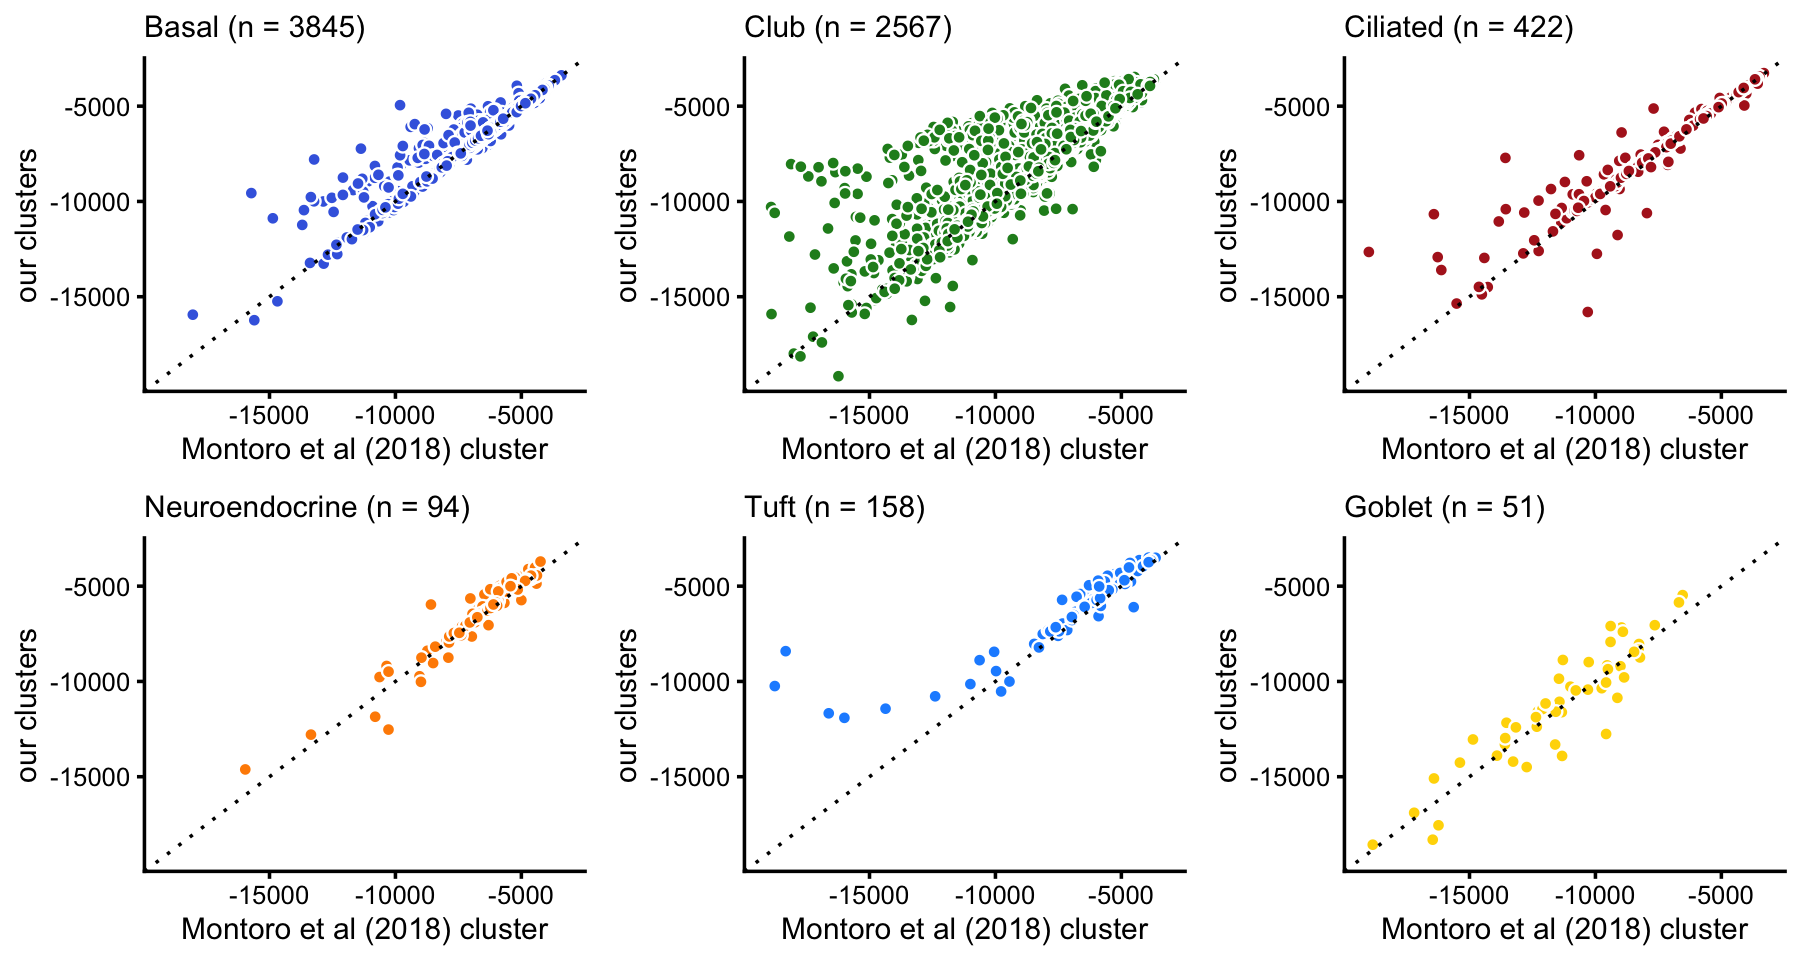
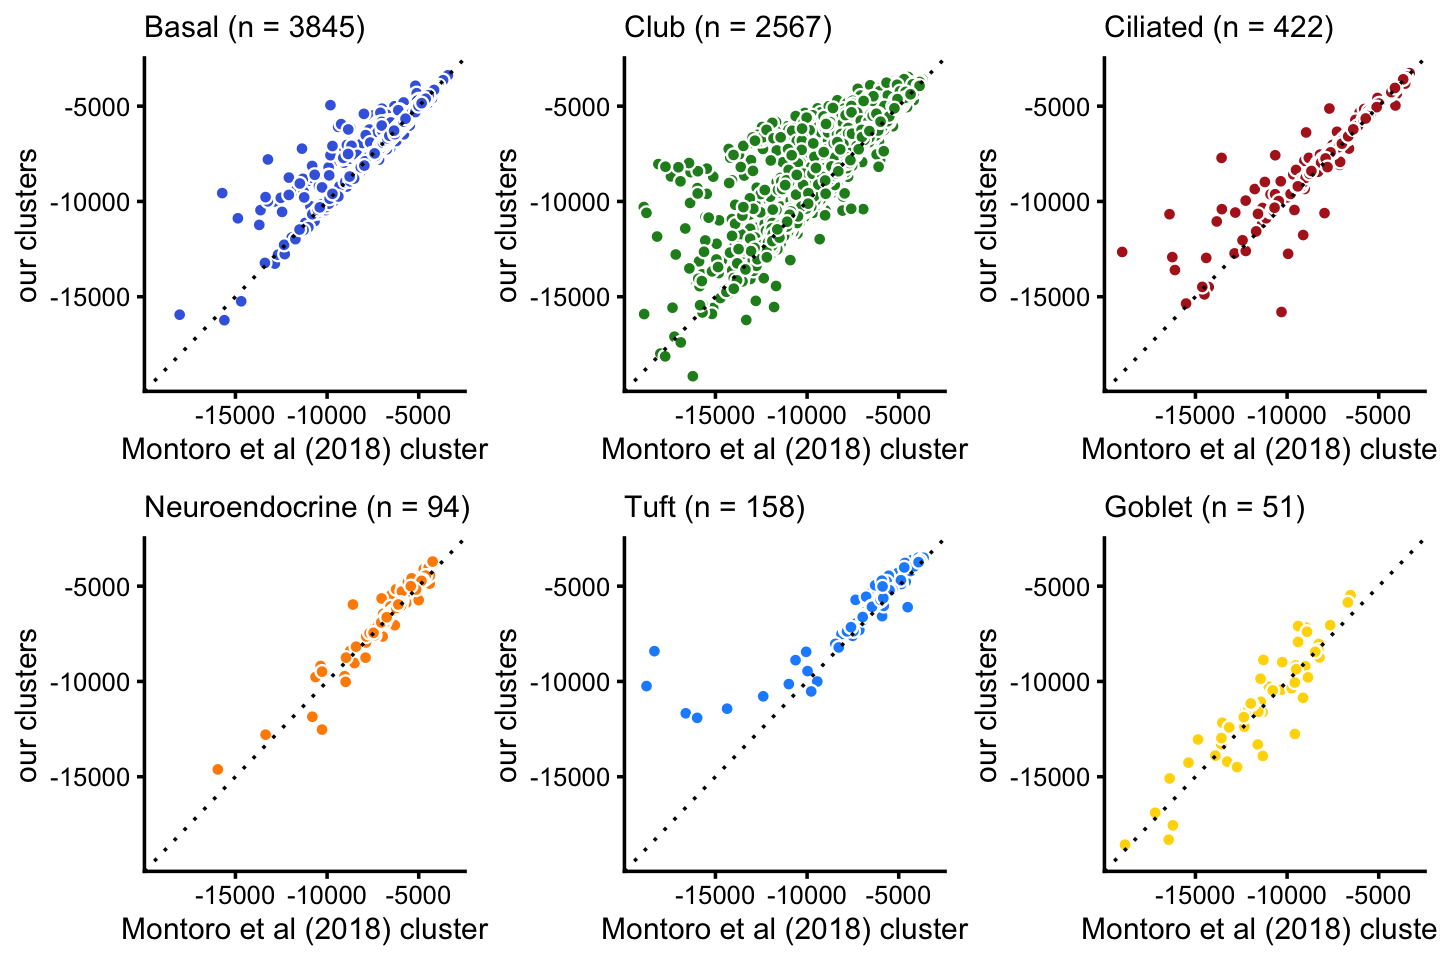
Added text describing likelihood scatterplots in clusters_droplet analysis.

diff --git a/docs/clusters_droplet.html b/docs/clusters_droplet.html
@@ -414,16 +414,16 @@ This reproducible <a href="http://rmarkdown.rstudio.com">R Markdown</a> analysis
 <div class="panel panel-default">
 <div class="panel-heading">
 <p class="panel-title">
-<a data-toggle="collapse" data-parent="#workflowr-checks" href="#strongRepositoryversionstrongahrefhttpsgithubcomstephenslabsinglecelltopicstreea51c33bece1f7b26b7e2566e197ce87ac5664f5dtargetblanka51c33ba"> <span class="glyphicon glyphicon-ok text-success" aria-hidden="true"></span> <strong>Repository version:</strong> <a href="https://github.com/stephenslab/single-cell-topics/tree/a51c33bece1f7b26b7e2566e197ce87ac5664f5d" target="_blank">a51c33b</a> </a>
+<a data-toggle="collapse" data-parent="#workflowr-checks" href="#strongRepositoryversionstrongahrefhttpsgithubcomstephenslabsinglecelltopicstreee672ef7e7809a8b9f50bf85b1dce365e1b79b664targetblanke672ef7a"> <span class="glyphicon glyphicon-ok text-success" aria-hidden="true"></span> <strong>Repository version:</strong> <a href="https://github.com/stephenslab/single-cell-topics/tree/e672ef7e7809a8b9f50bf85b1dce365e1b79b664" target="_blank">e672ef7</a> </a>
 </p>
 </div>
[2 lines of base64/hex data omitted]
 <div class="panel-body">
 <p>
 Great! You are using Git for version control. Tracking code development and connecting the code version to the results is critical for reproducibility.
 </p>
 <p>
-The results in this page were generated with repository version <a href="https://github.com/stephenslab/single-cell-topics/tree/a51c33bece1f7b26b7e2566e197ce87ac5664f5d" target="_blank">a51c33b</a>. See the <em>Past versions</em> tab to see a history of the changes made to the R Markdown and HTML files.
+The results in this page were generated with repository version <a href="https://github.com/stephenslab/single-cell-topics/tree/e672ef7e7809a8b9f50bf85b1dce365e1b79b664" target="_blank">e672ef7</a>. See the <em>Past versions</em> tab to see a history of the changes made to the R Markdown and HTML files.
 </p>
 <p>
 Note that you need to be careful to ensure that all relevant files for the analysis have been committed to Git prior to generating the results (you can use <code>wflow_publish</code> or <code>wflow_git_commit</code>). workflowr only checks the R Markdown file, but you know if there are other scripts or data files that it depends on. Below is the status of the Git repository when the results were generated:
@@ -485,6 +485,40 @@ Message
 </tr>
 </thead>
 <tbody>
+<tr>
+<td>
+Rmd
+</td>
+<td>
+<a href="https://github.com/stephenslab/single-cell-topics/blob/e672ef7e7809a8b9f50bf85b1dce365e1b79b664/analysis/clusters_droplet.Rmd" target="_blank">e672ef7</a>
+</td>
+<td>
+Peter Carbonetto
+</td>
+<td>
+2020-10-18
+</td>
+<td>
+workflowr::wflow_publish(“clusters_droplet.Rmd”)
+</td>
+</tr>
+<tr>
+<td>
+html
+</td>
+<td>
+<a href="https://rawcdn.githack.com/stephenslab/single-cell-topics/7363e2a6c24b06ced2571eff46e760e63626af56/docs/clusters_droplet.html" target="_blank">7363e2a</a>
+</td>
+<td>
+Peter Carbonetto
+</td>
+<td>
+2020-10-18
+</td>
+<td>
+Added log-likelihood scatterplots to clusters_droplet analysis.
+</td>
+</tr>
 <tr>
 <td>
 Rmd
@@ -2297,7 +2331,7 @@ Peter Carbonetto
 </div>
 <div id="analysis-of-single-cell-likelihoods" class="section level2">
 <h2>Analysis of single-cell likelihoods</h2>
-<p><em>Add text.</em></p>
+<p>Here we calculate single-cell likelihoods to assess how well the multinomial topic model captures expression in different cell-types.</p>
 <pre class="r"><code>fit_merge      &lt;- merge_topics(poisson2multinom(fit),c(&quot;k5&quot;,&quot;k7&quot;))
 fit_cluster    &lt;- init_poisson_nmf_from_clustering(counts,samples$cluster)
 fit_montoro    &lt;- init_poisson_nmf_from_clustering(counts,samples$tissue)
@@ -2306,7 +2340,7 @@ fit_montoro    &lt;- poisson2multinom(fit_montoro)
 loglik_topics  &lt;- loglik_multinom_topic_model(counts,fit_merge)
 loglik_cluster &lt;- loglik_multinom_topic_model(counts,fit_cluster)
 loglik_montoro &lt;- loglik_multinom_topic_model(counts,fit_montoro)</code></pre>
-<p><em>Add text here.</em></p>
+<p>Here we compare the likelihood under gene expression levels estimated by a hard clustering; specifically, we compare the Montoro <em>et al</em> (2018) clustering against our clustering. Overall, our clustering appears to better fit the data, particularly in the abundant cell types (basal, club, ciliated).</p>
 <pre class="r"><code>minloglik &lt;- -20000
 p1 &lt;- loglik_scatterplot(loglik_montoro,loglik_cluster,samples$tissue,&quot;Basal&quot;,
                          &quot;royalblue&quot;,minloglik,&quot;Montoro et al (2018) cluster&quot;,
@@ -2327,8 +2361,45 @@ p6 &lt;- loglik_scatterplot(loglik_montoro,loglik_cluster,samples$tissue,&quot;G
                          &quot;gold&quot;,minloglik,&quot;Montoro et al (2018) cluster&quot;,
                          &quot;our clusters&quot;)
 plot_grid(p1,p2,p3,p4,p5,p6,nrow = 2,ncol = 3)</code></pre>
-<p><img src="figure/clusters_droplet.Rmd/likelihood-2-1.png" width="900" style="display: block; margin: auto;" /></p>
-<p><em>Add text here.</em></p>
+<p><img src="figure/clusters_droplet.Rmd/likelihood-2-1.png" width="720" style="display: block; margin: auto;" /></p>
+<p>
+<button type="button" class="btn btn-default btn-xs btn-workflowr btn-workflowr-fig" data-toggle="collapse" data-target="#fig-likelihood-2-1">
+Past versions of likelihood-2-1.png
+</button>
+</p>
+<div id="fig-likelihood-2-1" class="collapse">
+<div class="table-responsive">
+<table class="table table-condensed table-hover">
+<thead>
+<tr>
+<th>
+Version
+</th>
+<th>
+Author
+</th>
+<th>
+Date
+</th>
+</tr>
+</thead>
+<tbody>
+<tr>
+<td>
+<a href="https://github.com/stephenslab/single-cell-topics/blob/7363e2a6c24b06ced2571eff46e760e63626af56/docs/figure/clusters_droplet.Rmd/likelihood-2-1.png" target="_blank">7363e2a</a>
+</td>
+<td>
+Peter Carbonetto
+</td>
+<td>
+2020-10-18
+</td>
+</tr>
+</tbody>
+</table>
+</div>
+</div>
+<p>Next, we compare the topic-model likelihoods to the clustering-based likelihoods. In most cases, the topic model provides a fit that is better or at least as good as the clustering-based fit. The one excecption is the tuft and neuroendocrine cells; the clustering provides a better fit of the observed expression levels given that no single topic represents tuft and neuroendocrine cells. Despite this, the topic model provides a reasonably good fit for the tuft and neuroendocrine cells.</p>
 <pre class="r"><code>p7  &lt;- loglik_scatterplot(loglik_cluster,loglik_topics,samples$cluster,&quot;B&quot;,
                           &quot;royalblue&quot;,minloglik,&quot;cluster&quot;,&quot;topics&quot;)
 p8  &lt;- loglik_scatterplot(loglik_cluster,loglik_topics,samples$cluster,&quot;C&quot;,
@@ -2342,8 +2413,45 @@ p11 &lt;- loglik_scatterplot(loglik_cluster,loglik_topics,samples$cluster,&quot;
 p12 &lt;- loglik_scatterplot(loglik_cluster,loglik_topics,samples$cluster,&quot;G&quot;,
                           &quot;gold&quot;,minloglik,&quot;cluster&quot;,&quot;topics&quot;)
 plot_grid(p7,p8,p9,p10,p11,p12,nrow = 2,ncol = 3)</code></pre>
-<p><img src="figure/clusters_droplet.Rmd/likelihood-3-1.png" width="900" style="display: block; margin: auto;" /></p>
-<p><em>Add text here.</em></p>
+<p><img src="figure/clusters_droplet.Rmd/likelihood-3-1.png" width="720" style="display: block; margin: auto;" /></p>
+<p>
+<button type="button" class="btn btn-default btn-xs btn-workflowr btn-workflowr-fig" data-toggle="collapse" data-target="#fig-likelihood-3-1">
+Past versions of likelihood-3-1.png
+</button>
+</p>
+<div id="fig-likelihood-3-1" class="collapse">
+<div class="table-responsive">
+<table class="table table-condensed table-hover">
+<thead>
+<tr>
+<th>
+Version
+</th>
+<th>
+Author
+</th>
+<th>
+Date
+</th>
+</tr>
+</thead>
+<tbody>
+<tr>
+<td>
+<a href="https://github.com/stephenslab/single-cell-topics/blob/7363e2a6c24b06ced2571eff46e760e63626af56/docs/figure/clusters_droplet.Rmd/likelihood-3-1.png" target="_blank">7363e2a</a>
+</td>
+<td>
+Peter Carbonetto
+</td>
+<td>
+2020-10-18
+</td>
+</tr>
+</tbody>
+</table>
+</div>
+</div>
+<p>Comparing against the Montoro <em>et al</em> (2018) shows a similar pattern. The ionocyte cluster is also better captured by the cluster with 26 cells, although the improvement is small, indicating that the gene expression patterns in ionocyte cells are well-captured by the topics mixture.</p>
 <pre class="r"><code>p13 &lt;- loglik_scatterplot(loglik_montoro,loglik_topics,samples$tissue,&quot;Basal&quot;,
                           &quot;royalblue&quot;,minloglik,&quot;Montoro et al (2018) cluster&quot;,
                           &quot;topics&quot;)
@@ -2366,7 +2474,44 @@ p19 &lt;- loglik_scatterplot(loglik_montoro,loglik_topics,samples$tissue,
                           &quot;Goblet&quot;,&quot;gold&quot;,minloglik,
                           &quot;Montoro et al (2018) cluster&quot;,&quot;topics&quot;)
 plot_grid(p13,p14,p15,p16,p17,p18,p19,nrow = 3,ncol = 3)</code></pre>
-<p><img src="figure/clusters_droplet.Rmd/likelihood-4-1.png" width="900" style="display: block; margin: auto;" /></p>
+<p><img src="figure/clusters_droplet.Rmd/likelihood-4-1.png" width="720" style="display: block; margin: auto;" /></p>
+<p>
+<button type="button" class="btn btn-default btn-xs btn-workflowr btn-workflowr-fig" data-toggle="collapse" data-target="#fig-likelihood-4-1">
+Past versions of likelihood-4-1.png
+</button>
+</p>
+<div id="fig-likelihood-4-1" class="collapse">
+<div class="table-responsive">
+<table class="table table-condensed table-hover">
+<thead>
+<tr>
+<th>
+Version
+</th>
+<th>
+Author
+</th>
+<th>
+Date
+</th>
+</tr>
+</thead>
+<tbody>
+<tr>
+<td>
+<a href="https://github.com/stephenslab/single-cell-topics/blob/7363e2a6c24b06ced2571eff46e760e63626af56/docs/figure/clusters_droplet.Rmd/likelihood-4-1.png" target="_blank">7363e2a</a>
+</td>
+<td>
+Peter Carbonetto
+</td>
+<td>
+2020-10-18
+</td>
+</tr>
+</tbody>
+</table>
+</div>
+</div>
 </div>
 <div id="save-results" class="section level2">
 <h2>Save results</h2>
